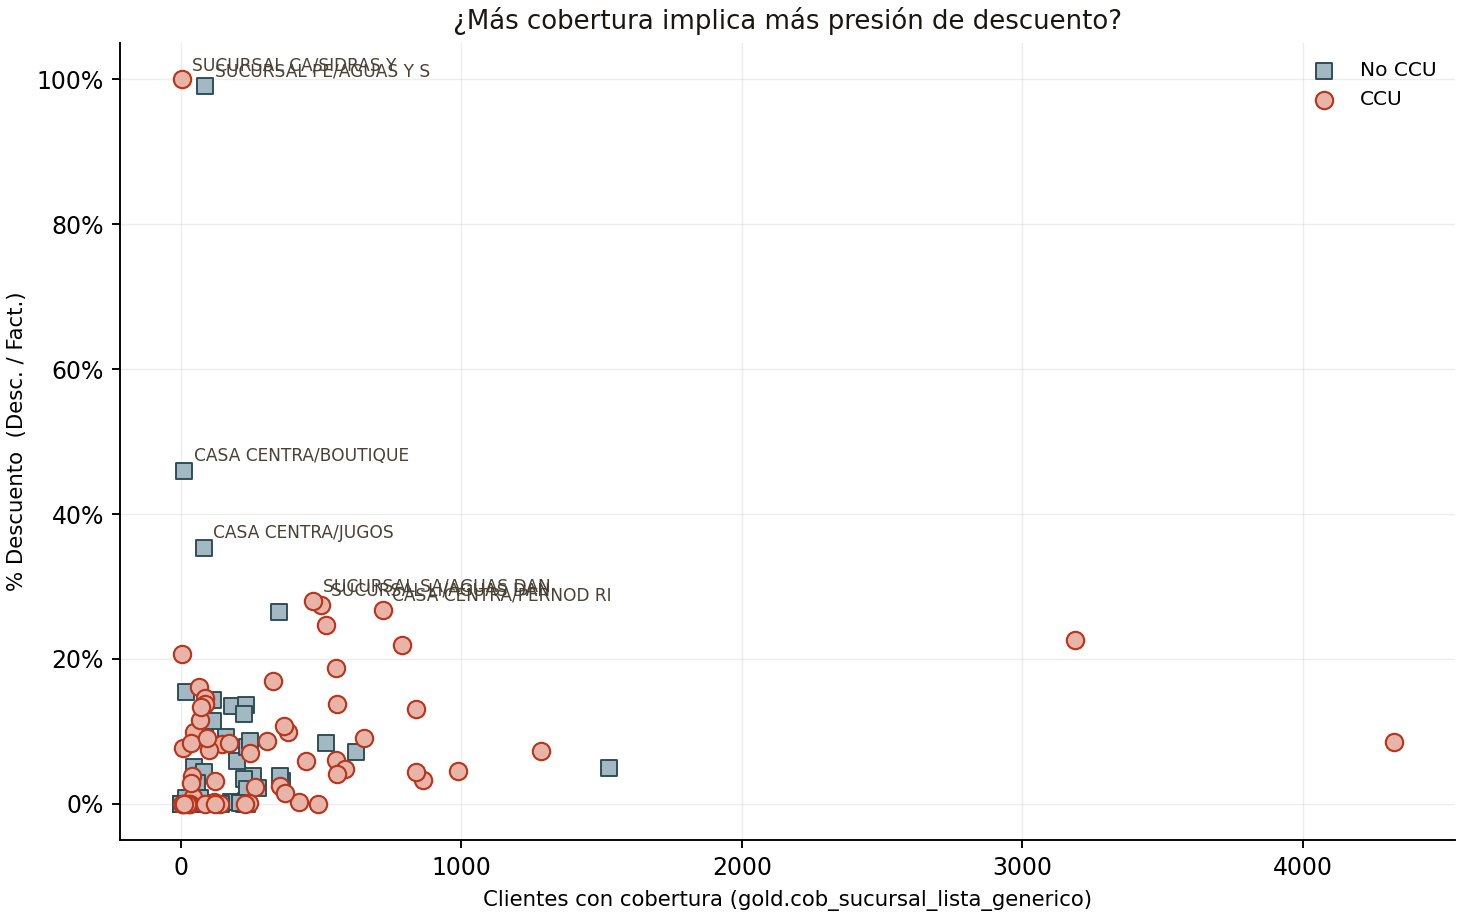
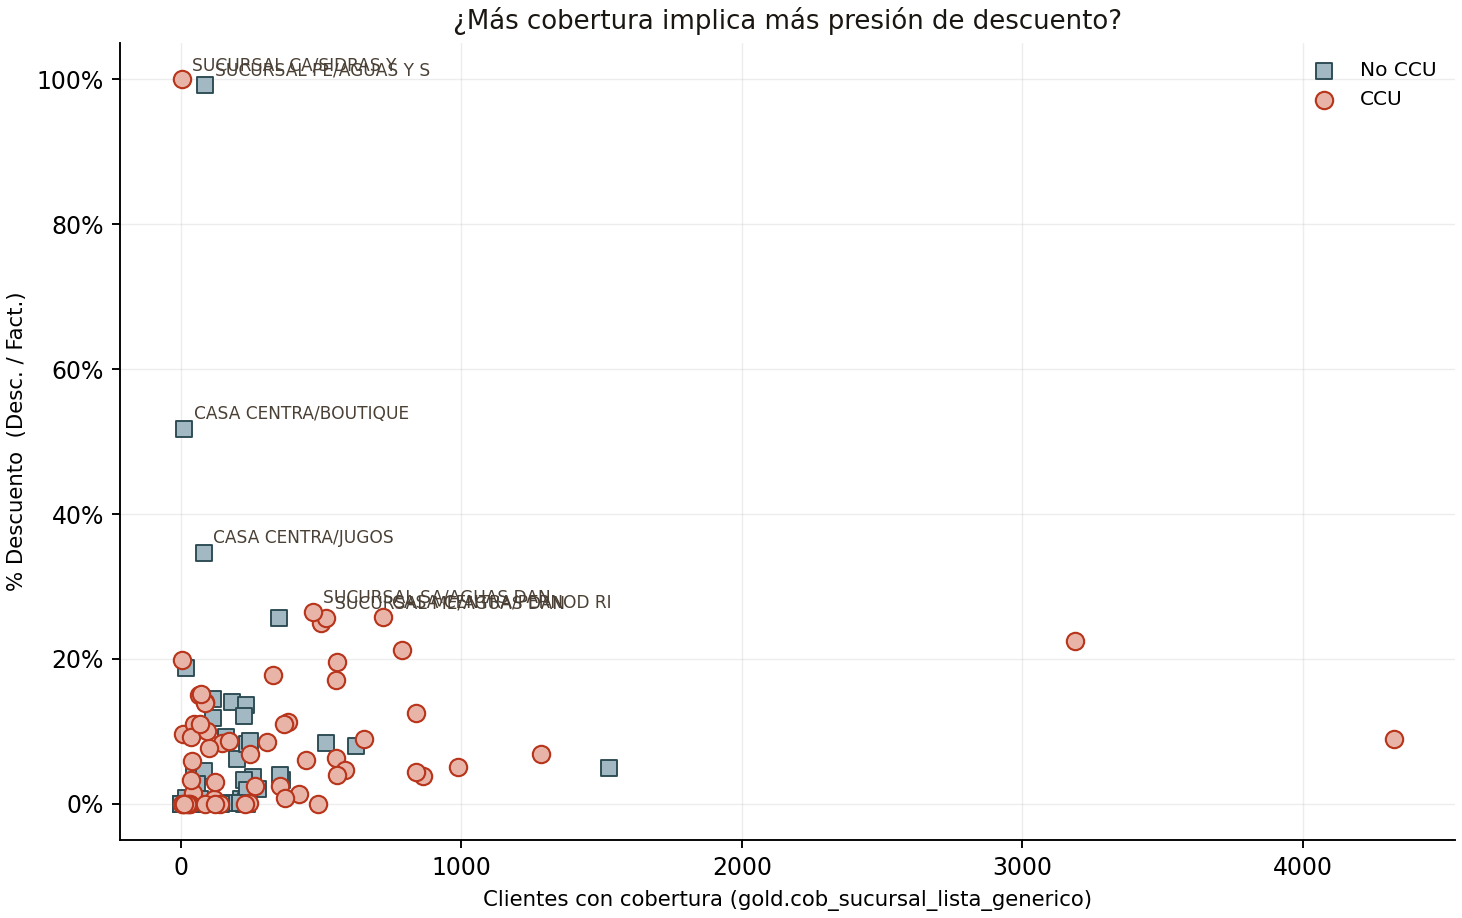
fix(acciones-comerciales): measure the daily sheet against real sales, not the promoted lines
Evolución Diaria took its Facturación from the wapi, which carries ONLY the
lines that had a promotional action. As a denominator that understates the
sale, so the % Desc. came out inflated: 17.90% on 01-ago where the real
figure is 8.20%. The Descuentos were never the problem -- wapi and
fact_ventas agree to 0.04%, because a discount only exists where there is an
action. What was missing was the sale to measure it against.

The sheet now reads gold.fact_ventas by day, split into the five CCU
genéricos and everything else, and the % is Descuentos / Facturación of the
genérico. Facturación CCU goes from $3,424 M to $4,572 M for August 2026;
the $1,148 M difference is CCU product sold without an action.

Also fixes the client count in the sucursal ranking. `clientes` arrives
counted per (sucursal, genérico, marca) and the sheet summed it, so a client
buying five brands counted five times: 59,595 against 11,415 real, 5.2x.
Coverage is not additive across brands -- it has to be counted at the grain
it is shown. Bultos keeps summing, since volume is additive.

The sheet carries a calculated reconciliation: the CCU column matches
"Genéricos" restricted to the five CCU genéricos to the cent, and the wapi
total stays listed so the gap is visible instead of confusing.

One gap the reconciliation now surfaces: gold reports $5,593,979,433 for the
period against FACT_NET's $5,581,679,765. The $12,299,668 difference is
[…]

diff --git a/dashboards/acciones-comerciales/build_informe_excel.py b/dashboards/acciones-comerciales/build_informe_excel.py
@@ -584,10 +584,43 @@ def load_gold():
         FROM gold.cob_sucursal_lista_generico
         WHERE periodo = '2026-07-01'
         GROUP BY 1,2,3""", dl.engine)
+    # Evolucion diaria: facturacion y descuentos POR DIA, abiertos en CCU y
+    # resto. Antes esta hoja salia del wapi, que trae SOLO las lineas con
+    # accion promocional: la facturacion quedaba corta ($3.424 M contra los
+    # $4.572 M reales de CCU en agosto-2026) y el % Desc. salia inflado
+    # porque dividia el descuento por un subconjunto de la venta, no por la
+    # venta. Los descuentos coincidian por las dos vias (0,04%), asi que lo
+    # unico que faltaba era el denominador.
+    # Clientes por sucursal al GRANO SUCURSAL. El `clientes` de `ventas` esta
+    # contado por (sucursal, generico, marca): sumarlo cuenta al mismo cliente
+    # una vez por cada marca que compro. Daba 59.595 contra 11.415 reales
+    # (agosto-2026, 5,2x). La cobertura NO es aditiva entre marcas ni
+    # genericos — hay que contarla en el corte donde se la quiere mostrar.
+    cli_suc = pd.read_sql(f"""
+        SELECT ds.descripcion AS sucursal,
+               COUNT(DISTINCT fv.id_cliente) AS clientes
+        FROM gold.fact_ventas fv
+        JOIN gold.dim_sucursal ds ON fv.id_sucursal = ds.id_sucursal
+        WHERE fv.fecha_comprobante BETWEEN '{PERIODO_DESDE}' AND '{PERIODO_HASTA}'
+          AND fv.anulado = false
+        GROUP BY 1""", dl.engine)
+
+    ccu_sql = ", ".join(f"'{g}'" for g in sorted(CCU))
+    diario = pd.read_sql(f"""
+        SELECT fv.fecha_comprobante AS fecha,
+               (da.generico IN ({ccu_sql})) AS es_ccu,
+               SUM(fv.facturacion_neta) AS facturacion,
+               SUM(fv.descuentos)       AS descuentos,
+               COUNT(*)                 AS lineas
+        FROM gold.fact_ventas fv
+        JOIN gold.dim_articulo da ON fv.id_articulo = da.id_articulo
+        WHERE fv.fecha_comprobante BETWEEN '{PERIODO_DESDE}' AND '{PERIODO_HASTA}'
+          AND fv.anulado = false
+        GROUP BY 1,2 ORDER BY 1,2""", dl.engine)
     # El mapa articulo -> generico sale del mismo cursor: lo necesita el
     # recalculo de la tasa y no justifica una segunda conexion.
     art = pd.read_sql("SELECT id_articulo, generico FROM gold.dim_articulo", dl.engine)
-    return ventas, cob, dict(zip(art.id_articulo, art.generico))
+    return ventas, cob, dict(zip(art.id_articulo, art.generico)), diario, cli_suc
 
 
 # ---------------- graficos matplotlib (lo que Excel no hace bien) ----------------
@@ -1228,7 +1261,7 @@ def build(out_path: Path):
     inf = load_informe()
 
     print("Cargando gold ...")
-    ventas, cob, generico_por_articulo = load_gold()
+    ventas, cob, generico_por_articulo, diario_gold, clientes_suc = load_gold()
 
     # Modelo de tasa recalculado desde los insumos. Si algo falta, se cae al
     # bloque leido del .xlsm — mejor un dato viejo declarado que uno inventado.
@@ -1478,23 +1511,52 @@ def build(out_path: Path):
     # ============ 4. EVOLUCION DIARIA ============
     ws = wb.create_sheet("Evolución Diaria")
     ws.sheet_view.showGridLines = False
-    widths(ws, {"A": 3, "B": 13, "C": 18, "D": 17, "E": 13, "F": 13})
-    # OJO: la Facturación de esta hoja NO coincide con la de «Genéricos» y no
-    # tiene por qué. Acá se mide el archivo wapi de CCU — sólo las líneas CON
-    # acción promocional. «Genéricos» mide la venta completa de BADIE. Los
-    # Descuentos sí cierran entre las dos (el descuento sólo existe donde hay
-    # acción); la Facturación no, porque son universos distintos.
+    widths(ws, {"A": 3, "B": 13, "C": 19, "D": 17, "E": 11, "F": 19, "G": 17,
+                "H": 11, "I": 19})
+    # La facturacion sale de gold (fact_ventas), NO del wapi. El wapi trae solo
+    # las lineas CON accion promocional: como denominador del % Desc. subestima
+    # la venta y el porcentaje sale inflado. Los descuentos son los mismos por
+    # las dos vias (0,04% de diferencia en agosto-2026) porque el descuento solo
+    # existe donde hay accion; lo que faltaba era la venta contra la que medirlo.
     r = title(ws, 2, "Evolución diaria",
-              "Fuente A · BASE control · hoja wapi — SÓLO líneas con acción CCU "
-              "(la facturación no cuadra con «Genéricos»: ver nota al pie)")
-    dd = daily.copy()
-    dd["pct"] = dd.descuentos / dd.facturacion.replace(0, pd.NA)
-    dd = dd.rename(columns={"fecha": "Fecha", "facturacion": "Facturación",
-                            "descuentos": "Descuentos", "operaciones": "Operaciones", "pct": "% Desc."})
+              "Fuente C · gold.fact_ventas — venta COMPLETA, abierta en CCU y resto · "
+              "el % se mide contra la venta del genérico, no contra las líneas promocionadas")
+    dg = diario_gold.copy()
+    dg["fecha"] = dg["fecha"].astype(str)
+    dg["es_ccu"] = dg["es_ccu"].astype(bool)
+    piv = dg.pivot_table(index="fecha", columns="es_ccu",
+                         values=["facturacion", "descuentos"], aggfunc="sum", fill_value=0.0)
+    fechas = sorted(piv.index)
+
+    def _v(campo, ccu, f):
+        try:
+            return float(piv.loc[f, (campo, ccu)])
+        except KeyError:
+            return 0.0
+
+    dd = pd.DataFrame({
+        "Fecha": fechas,
+        "Fact. CCU": [_v("facturacion", True, f) for f in fechas],
+        "Desc. CCU": [_v("descuentos", True, f) for f in fechas],
+        "Fact. resto": [_v("facturacion", False, f) for f in fechas],
+        "Desc. resto": [_v("descuentos", False, f) for f in fechas],
+    })
+    dd["% Desc. CCU"] = dd["Desc. CCU"] / dd["Fact. CCU"].replace(0, pd.NA)
+    dd["% Desc. resto"] = dd["Desc. resto"] / dd["Fact. resto"].replace(0, pd.NA)
+    dd["Fact. TOTAL"] = dd["Fact. CCU"] + dd["Fact. resto"]
+    dd = dd[["Fecha", "Fact. CCU", "Desc. CCU", "% Desc. CCU",
+             "Fact. resto", "Desc. resto", "% Desc. resto", "Fact. TOTAL"]]
     start = r
-    r = write_df(ws, dd[["Fecha", "Facturación", "Descuentos", "Operaciones", "% Desc."]], r,
-                 {"Facturación": F_MONEY, "Descuentos": F_MONEY, "Operaciones": F_INT, "% Desc.": F_PCT},
+    r = write_df(ws, dd, r,
+                 {"Fact. CCU": F_MONEY, "Desc. CCU": F_MONEY, "% Desc. CCU": F_PCT,
+                  "Fact. resto": F_MONEY, "Desc. resto": F_MONEY, "% Desc. resto": F_PCT,
+                  "Fact. TOTAL": F_MONEY},
                  start_col=2, table_name="tblDiario")
+    # Los % de la fila de total no son sumables: se recalculan como cociente de
+    # los totales, que es lo que significan.
+    _tot = r - 1
+    ws.cell(row=_tot, column=5, value=f"=IF(D{_tot}=0,\"\",D{_tot}/C{_tot})").number_format = F_PCT
+    ws.cell(row=_tot, column=8, value=f"=IF(G{_tot}=0,\"\",G{_tot}/F{_tot})").number_format = F_PCT
 
     lc = LineChart()
     d = Reference(ws, min_col=3, max_col=4, min_row=start, max_row=r - 2)
@@ -1507,48 +1569,57 @@ def build(out_path: Path):
     lc.series[1].graphicalProperties.line.solidFill = BADIE
     lc.series[1].graphicalProperties.line.width = 22000
     lc.series[1].marker = Marker(symbol="diamond", size=5)
-    style_chart(lc, "Facturación y descuentos por día", x_title="Fecha", y_title="ARS", w=26, h=11)
-    ws.add_chart(lc, f"H{start}")
+    style_chart(lc, "CCU — facturación y descuentos por día", x_title="Fecha", y_title="ARS", w=26, h=11)
+    ws.add_chart(lc, f"K{start}")
 
     lc2 = LineChart()
-    d2 = Reference(ws, min_col=6, max_col=6, min_row=start, max_row=r - 2)
+    d2 = Reference(ws, min_col=5, max_col=5, min_row=start, max_row=r - 2)
     lc2.add_data(d2, titles_from_data=True)
     lc2.set_categories(cats)
     lc2.series[0].graphicalProperties.line.solidFill = WARN
     lc2.series[0].graphicalProperties.line.width = 24000
     lc2.series[0].marker = Marker(symbol="triangle", size=5)
-    style_chart(lc2, "% Descuento diario (Desc. / Fact.)", x_title="Fecha", w=26, h=10)
-    ws.add_chart(lc2, f"H{start + 23}")
+    style_chart(lc2, "CCU — % descuento diario (Desc. / Fact. del genérico)", x_title="Fecha", w=26, h=10)
+    ws.add_chart(lc2, f"K{start + 23}")
 
-    # Conciliacion explicita contra la hoja «Genéricos». Sin esto, dos hojas
-    # con la misma etiqueta «Facturación» y totales distintos se leen como un
-    # error del informe. Los numeros se calculan, no se declaran.
+    # Conciliacion calculada contra «Genéricos» y contra el wapi. Los numeros se
+    # calculan, no se declaran: si un dia dejan de cerrar, la hoja lo muestra.
     rn = r + 2
-    rn = band(ws, rn, "POR QUÉ ESTE TOTAL NO ES EL DE «GENÉRICOS»", col=2, span=5)
-    f_wapi, d_wapi = float(dd["Facturación"].sum()), float(dd["Descuentos"].sum())
+    rn = band(ws, rn, "CONCILIACIÓN — de dónde sale cada total", col=2, span=7)
+    f_ccu_d, d_ccu_d = float(dd["Fact. CCU"].sum()), float(dd["Desc. CCU"].sum())
+    f_tot_d = float(dd["Fact. TOTAL"].sum())
     ccu_mask = fact["generico"].isin(CCU)
-    f_ccu, d_ccu = float(fact.loc[ccu_mask, "facturacion"].sum()), float(fact.loc[ccu_mask, "descuentos"].sum())
-    f_all, d_all = float(fact["facturacion"].sum()), float(fact["descuentos"].sum())
+    f_ccu_g = float(fact.loc[ccu_mask, "facturacion"].sum())
+    d_ccu_g = float(fact.loc[ccu_mask, "descuentos"].sum())
+    f_all_g, d_all_g = float(fact["facturacion"].sum()), float(fact["descuentos"].sum())
+    f_wapi = float(daily["facturacion"].sum()) if len(daily) else 0.0
+    d_wapi = float(daily["descuentos"].sum()) if len(daily) else 0.0
+    ws.cell(row=rn - 1, column=4, value="Facturación").font = Font(size=8, bold=True, color=INK_MUTE)
+    ws.cell(row=rn - 1, column=5, value="Descuentos").font = Font(size=8, bold=True, color=INK_MUTE)
     for etiqueta, fv, dv in [
-        ("Esta hoja (wapi: sólo líneas con acción CCU)", f_wapi, d_wapi),
-        ("«Genéricos» acotado a los 5 genéricos CCU", f_ccu, d_ccu),
-        ("«Genéricos» completo (toda la venta BADIE)", f_all, d_all),
+        ("Esta hoja — columna CCU", f_ccu_d, d_ccu_d),
+        ("«Genéricos» acotado a los 5 genéricos CCU", f_ccu_g, d_ccu_g),
+        ("Esta hoja — CCU + resto", f_tot_d, float(dd["Desc. CCU"].sum() + dd["Desc. resto"].sum())),
+        ("«Genéricos» completo (toda la venta BADIE)", f_all_g, d_all_g),
+        ("wapi (sólo líneas CON acción) — ya no se usa acá", f_wapi, d_wapi),
     ]:
         ws.cell(row=rn, column=2, value=etiqueta).font = Font(size=9, color=INK)
         c = ws.cell(row=rn, column=4, value=fv); c.number_format = F_MONEY; c.font = Font(size=9)
         c = ws.cell(row=rn, column=5, value=dv); c.number_format = F_MONEY; c.font = Font(size=9)
         rn += 1
-    ws.cell(row=rn - 3, column=3, value="Facturación").font = Font(size=8, bold=True, color=INK_MUTE)
-    dif_pct = (d_wapi / d_ccu - 1) if d_ccu else 0
+    dif_f = (f_ccu_d / f_ccu_g - 1) if f_ccu_g else 0
+    dif_d = (d_wapi / d_ccu_d - 1) if d_ccu_d else 0
+    falta = f_ccu_d - f_wapi
     rn += 1
     ws.cell(row=rn, column=2, value=(
-        f"Los DESCUENTOS cierran ({dif_pct:+.2%} contra el corte CCU de «Genéricos»): el descuento "
-        f"sólo existe donde hay acción. La FACTURACIÓN no cierra y no debe: el wapi trae únicamente "
-        f"las líneas promocionadas, mientras que «Genéricos» mide la venta completa. Comparar los dos "
-        f"totales de facturación entre sí no significa nada."
+        f"La columna CCU cierra contra «Genéricos» ({dif_f:+.3%}): las dos miden la venta de los 5 "
+        f"genéricos CCU en gold. El wapi mide otra cosa — sólo las líneas CON acción promocional — y "
+        f"por eso queda ${falta:,.0f} corto: es venta de producto CCU que no tuvo acción. Los "
+        f"DESCUENTOS sí coinciden por las dos vías ({dif_d:+.2%}), porque el descuento sólo existe "
+        f"donde hay acción. Usar el wapi como denominador del % inflaba el porcentaje."
     )).font = Font(size=9, italic=True, color=INK_MUTE)
     ws.cell(row=rn, column=2).alignment = Alignment(wrap_text=True, vertical="top")
-    ws.merge_cells(start_row=rn, start_column=2, end_row=rn + 2, end_column=6)
+    ws.merge_cells(start_row=rn, start_column=2, end_row=rn + 2, end_column=9)
 
     # ============ 5. GENERICOS ============
     ws = wb.create_sheet("Genéricos")
@@ -1602,7 +1673,11 @@ def build(out_path: Path):
                                       Artículos=("codigo", "nunique")).reset_index())
     s["Zona"] = s.sucursal.map(inf["zona_map"]).fillna("—")
     s["Supervisor"] = s.sucursal.map(inf["sup_map"]).fillna("—")
-    gv = ventas.groupby("sucursal").agg(Bultos=("bultos", "sum"), Clientes=("clientes", "sum")).reset_index()
+    # Bultos SI se suma (es volumen). Clientes NO: viene contado por
+    # (sucursal, generico, marca) y sumarlo cuenta al mismo cliente una vez por
+    # marca. Se toma del conteo hecho al grano sucursal.
+    gv = ventas.groupby("sucursal").agg(Bultos=("bultos", "sum")).reset_index()
+    gv = gv.merge(clientes_suc.rename(columns={"clientes": "Clientes"}), on="sucursal", how="left")
     gv["sucursal_norm"] = gv.sucursal.str.upper().str.strip()
     s["sucursal_norm"] = s.sucursal.str.replace(r"^\d+\s*-\s*", "", regex=True).str.upper().str.strip()
     s = s.merge(gv[["sucursal_norm", "Bultos", "Clientes"]], on="sucursal_norm", how="left")
